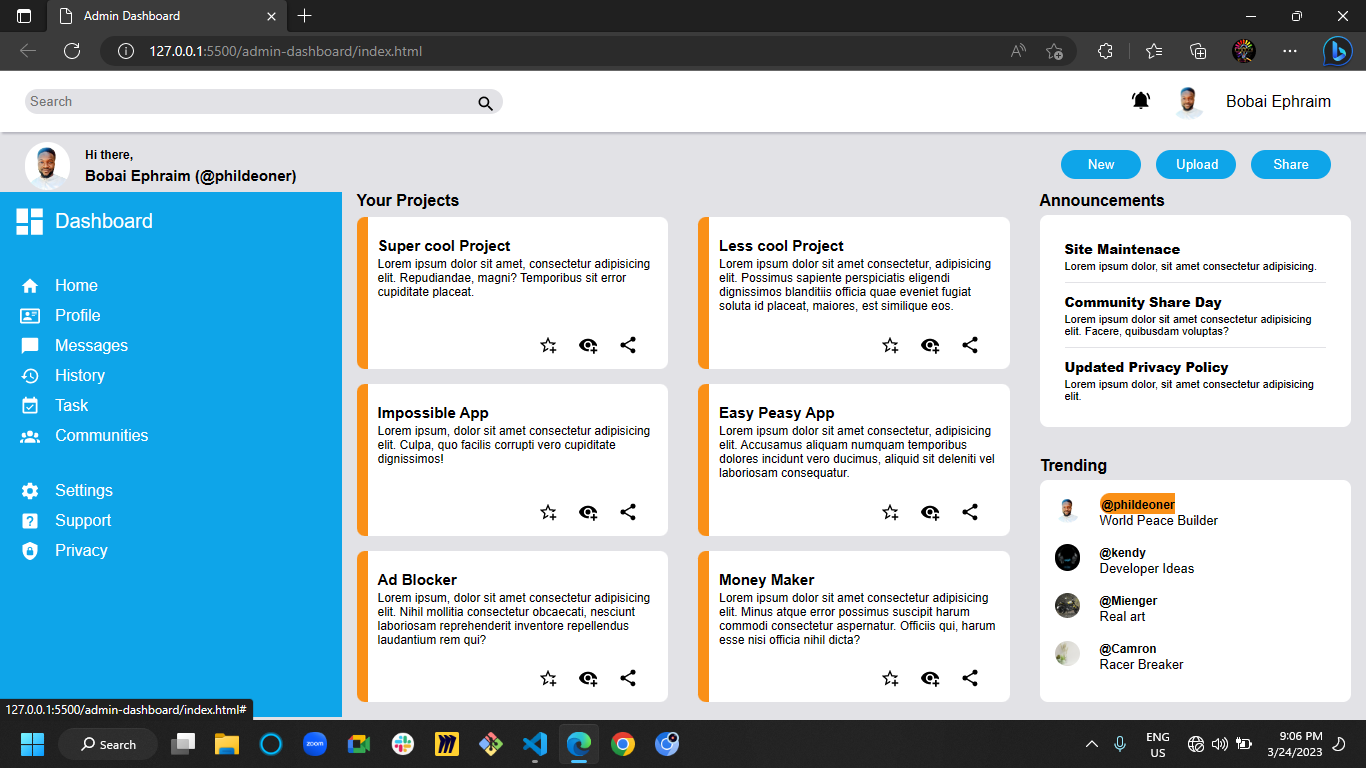
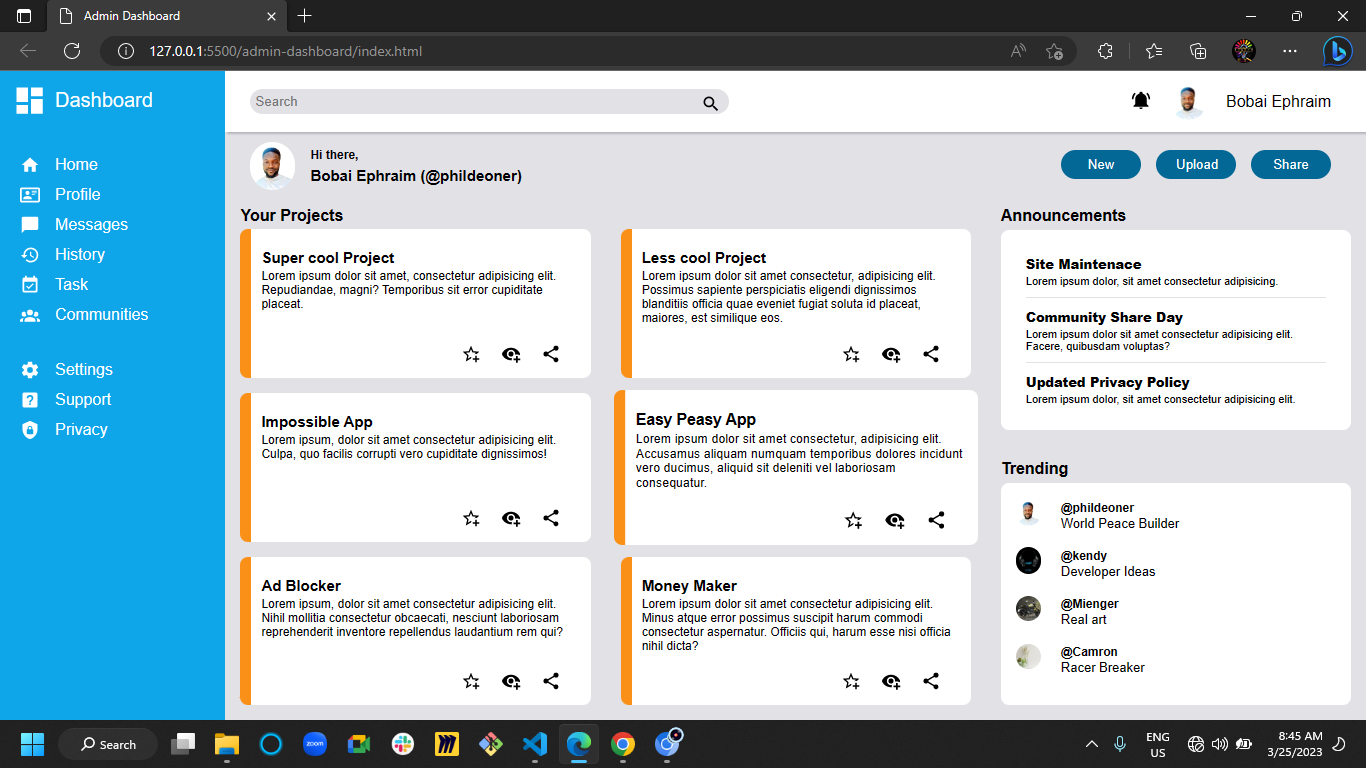
Adjsut sidebar

Changed region(s): [[0.0, 0.0938, 1.0, 0.9688], [0.3382, 0.0938, 0.5534, 0.1562], [0.0, 0.625, 0.0922, 0.7188]]

diff --git a/index.html b/index.html
@@ -9,6 +9,52 @@
 </head>
 <body>
   <div class="main">
+    <div class="sidebar">
+      <div class="dashboard">
+        <img class="image" src="./Images/view-dashboard.svg" alt="Dashboard image">
+        <a href="" class="links"><p>Dashboard</p></a>
+      </div>
+      <div class="content">
+        <div class="options">
+          <img class="image" src="./Images/home.svg" alt="Home image">
+          <a href="" class="links"><p>Home</p></a>
+        </div>
+        <div class="options">
+          <img class="image" src="./Images/card-account-details-outline.svg" alt="profile image">
+          <a href="" class="links"><p>Profile</p></a>
+        </div>
+        <div class="options">
+          <img class="image" src="./Images/message.svg" alt="Message image">
+          <a href="" class="links"><p>Messages</p></a>
+        </div>
+        <div class="options">
+          <img class="image" src="./Images/history.svg" alt="History image">
+          <a href="" class="links"><p>History</p></a>
+        </div>
+        <div class="options">
+          <img class="image" src="./Images/calendar-check.svg" alt="Task image">
+          <a href="" class="links"><p>Task</p></a>
+        </div>
+        <div class="options">
+          <img class="image" src="./Images/account-group.svg" alt="Communities image">
+          <a href="" class="links"><p>Communities</p></a>
+        </div>
+      </div>
+      <div class="others">
+        <div class="options">
+          <img class="image" src="./Images/cog.svg" alt="Settings image">
+          <a href="" class="links"><p>Settings</p></a>
+        </div>
+        <div class="options">
+          <img class="image" src="./Images/help-box.svg" alt="Support image">
+          <a href="" class="links"><p>Support</p></a>
+        </div>
+        <div class="options">
+          <img class="image" src="./Images/shield-lock.svg" alt="Privacy image">
+          <a href="" class="links"><p>Privacy</p></a>
+        </div>
+      </div>
+    </div>
     <div class="main-body">
       <div class="top">
         <div class="part1">
@@ -38,174 +84,127 @@
           </div>
         </div>
       </div>
-        <div class="grids">
-          <div class="sidebar">
-            <div class="dashboard">
-              <img class="image" src="./Images/view-dashboard.svg" alt="Dashboard image">
-              <a href="" class="links"><p>Dashboard</p></a>
+      <div class="grids">
+        <div class="mid">  
+          <p class="anm topic">Your Projects</p>       
+          <div class="grid">
+            <div class="grid-text">
+              <h4>Super cool Project</h4>
+              <p class="text">Lorem ipsum dolor sit amet, consectetur adipisicing elit. Repudiandae, magni? Temporibus sit error cupiditate placeat.</p>
             </div>
-            <div class="content">
-              <div class="options">
-                <img class="image" src="./Images/home.svg" alt="Home image">
-                <a href="" class="links"><p>Home</p></a>
-              </div>
-              <div class="options">
-                <img class="image" src="./Images/card-account-details-outline.svg" alt="profile image">
-                <a href="" class="links"><p>Profile</p></a>
-              </div>
-              <div class="options">
-                <img class="image" src="./Images/message.svg" alt="Message image">
-                <a href="" class="links"><p>Messages</p></a>
-              </div>
-              <div class="options">
-                <img class="image" src="./Images/history.svg" alt="History image">
-                <a href="" class="links"><p>History</p></a>
-              </div>
-              <div class="options">
-                <img class="image" src="./Images/calendar-check.svg" alt="Task image">
-                <a href="" class="links"><p>Task</p></a>
-              </div>
-              <div class="options">
-                <img class="image" src="./Images/account-group.svg" alt="Communities image">
-                <a href="" class="links"><p>Communities</p></a>
-              </div>
-            </div>
-            <div class="others">
-              <div class="options">
-                <img class="image" src="./Images/cog.svg" alt="Settings image">
-                <a href="" class="links"><p>Settings</p></a>
-              </div>
-              <div class="options">
-                <img class="image" src="./Images/help-box.svg" alt="Support image">
-                <a href="" class="links"><p>Support</p></a>
-              </div>
-              <div class="options">
-                <img class="image" src="./Images/shield-lock.svg" alt="Privacy image">
-                <a href="" class="links"><p>Privacy</p></a>
-              </div>
+            <div class="views">
+              <a href="#"><img class="ingrid" src="./Images/star-plus-outline.svg" alt="star icon"></a>
+              <a href="#"><img class="ingrid" src="./Images/eye-plus.svg" alt="eye icon"></a>
+              <a href="#"><img class="ingrid" src="./Images/share-variant.svg" alt="share icon"></a>
             </div>
           </div>
-          <div class="mid">  
-            <p class="anm topic">Your Projects</p>       
-            <div class="grid">
-              <div class="grid-text">
-                <h4>Super cool Project</h4>
-                <p class="text">Lorem ipsum dolor sit amet, consectetur adipisicing elit. Repudiandae, magni? Temporibus sit error cupiditate placeat.</p>
-              </div>
-              <div class="views">
-                <a href="#"><img class="ingrid" src="./Images/star-plus-outline.svg" alt="star icon"></a>
-                <a href="#"><img class="ingrid" src="./Images/eye-plus.svg" alt="eye icon"></a>
-                <a href="#"><img class="ingrid" src="./Images/share-variant.svg" alt="share icon"></a>
-              </div>
+          <div class="grid">
+            <div class="grid-text">
+              <h4>Less cool Project</h4>
+              <p class="text">Lorem ipsum dolor sit amet consectetur, adipisicing elit. Possimus sapiente perspiciatis eligendi dignissimos blanditiis officia quae eveniet fugiat soluta id placeat, maiores, est similique eos.</p>
             </div>
-            <div class="grid">
-              <div class="grid-text">
-                <h4>Less cool Project</h4>
-                <p class="text">Lorem ipsum dolor sit amet consectetur, adipisicing elit. Possimus sapiente perspiciatis eligendi dignissimos blanditiis officia quae eveniet fugiat soluta id placeat, maiores, est similique eos.</p>
-              </div>
-              <div class="views">
-                <a href="#"><img class="ingrid" src="./Images/star-plus-outline.svg" alt="star icon"></a>
-                <a href="#"><img class="ingrid" src="./Images/eye-plus.svg" alt="eye icon"></a>
-                <a href="#"><img class="ingrid" src="./Images/share-variant.svg" alt="share icon"></a>
-              </div>
-            </div>
-            <div class="grid">
-              <div class="grid-text">
-                <h4>Impossible App</h4>
-                <p class="text">Lorem ipsum, dolor sit amet consectetur adipisicing elit. Culpa, quo facilis corrupti vero cupiditate dignissimos!</p>
-              </div>
-              <div class="views">
-                <a href="#"><img class="ingrid" src="./Images/star-plus-outline.svg" alt="star icon"></a>
-                <a href="#"><img class="ingrid" src="./Images/eye-plus.svg" alt="eye icon"></a>
-                <a href="#"><img class="ingrid" src="./Images/share-variant.svg" alt="share icon"></a>
-              </div>
-            </div>
-            <div class="grid">
-              <div class="grid-text">
-                <h4>Easy Peasy App</h4>
-                <p class="text">Lorem ipsum dolor sit amet consectetur, adipisicing elit. Accusamus aliquam numquam temporibus dolores incidunt vero ducimus, aliquid sit deleniti vel laboriosam consequatur.</p>
-              </div>
-              <div class="views">
-                <a href="#"><img class="ingrid" src="./Images/star-plus-outline.svg" alt="star icon"></a>
-                <a href="#"><img class="ingrid" src="./Images/eye-plus.svg" alt="eye icon"></a>
-                <a href="#"><img class="ingrid" src="./Images/share-variant.svg" alt="share icon"></a>
-              </div>
-            </div>
-            <div class="grid">
-              <div class="grid-text">
-                <h4>Ad Blocker</h4>
-                <p class="text">Lorem ipsum, dolor sit amet consectetur adipisicing elit. Nihil mollitia consectetur obcaecati, nesciunt laboriosam reprehenderit inventore repellendus laudantium rem qui?</p>
-              </div>
-              <div class="views">
-                <a href="#"><img class="ingrid" src="./Images/star-plus-outline.svg" alt="star icon"></a>
-                <a href="#"><img class="ingrid" src="./Images/eye-plus.svg" alt="eye icon"></a>
-                <a href="#"><img class="ingrid" src="./Images/share-variant.svg" alt="share icon"></a>
-              </div>
-            </div>
-            <div class="grid">
-              <div class="grid-text">
-                <h4>Money Maker</h4>
-                <p class="text">Lorem ipsum dolor sit amet consectetur adipisicing elit. Minus atque error possimus suscipit harum commodi consectetur aspernatur. Officiis qui, harum esse nisi officia nihil dicta?</p>
-              </div>
-              <div class="views">
-                <a href="#"><img class="ingrid" src="./Images/star-plus-outline.svg" alt="star icon"></a>
-                <a href="#"><img class="ingrid" src="./Images/eye-plus.svg" alt="eye icon"></a>
-                <a href="#"><img class="ingrid" src="./Images/share-variant.svg" alt="share icon"></a>
-              </div>
+            <div class="views">
+              <a href="#"><img class="ingrid" src="./Images/star-plus-outline.svg" alt="star icon"></a>
+              <a href="#"><img class="ingrid" src="./Images/eye-plus.svg" alt="eye icon"></a>
+              <a href="#"><img class="ingrid" src="./Images/share-variant.svg" alt="share icon"></a>
             </div>
           </div>
-          <div class="ender">
-            <p class="anm">Announcements</p>
-            <div class="end-right1 ender1">
-              <div class="right-text">
-                <h4><a href="#">Site Maintenace</a></h4>
-                <p>Lorem ipsum dolor, sit amet consectetur adipisicing.</p>
-  
-                <h4><a href="#">Community Share Day</a></h4>
-                <p>Lorem ipsum dolor sit amet consectetur adipisicing elit. Facere, quibusdam voluptas?</p>
-  
-                <h4><a href="#">Updated Privacy Policy</a></h4>
-                <p class="ld">Lorem ipsum dolor, sit amet consectetur adipisicing elit.</p>
+          <div class="grid">
+            <div class="grid-text">
+              <h4>Impossible App</h4>
+              <p class="text">Lorem ipsum, dolor sit amet consectetur adipisicing elit. Culpa, quo facilis corrupti vero cupiditate dignissimos!</p>
+            </div>
+            <div class="views">
+              <a href="#"><img class="ingrid" src="./Images/star-plus-outline.svg" alt="star icon"></a>
+              <a href="#"><img class="ingrid" src="./Images/eye-plus.svg" alt="eye icon"></a>
+              <a href="#"><img class="ingrid" src="./Images/share-variant.svg" alt="share icon"></a>
+            </div>
+          </div>
+          <div class="grid">
+            <div class="grid-text">
+              <h4>Easy Peasy App</h4>
+              <p class="text">Lorem ipsum dolor sit amet consectetur, adipisicing elit. Accusamus aliquam numquam temporibus dolores incidunt vero ducimus, aliquid sit deleniti vel laboriosam consequatur.</p>
+            </div>
+            <div class="views">
+              <a href="#"><img class="ingrid" src="./Images/star-plus-outline.svg" alt="star icon"></a>
+              <a href="#"><img class="ingrid" src="./Images/eye-plus.svg" alt="eye icon"></a>
+              <a href="#"><img class="ingrid" src="./Images/share-variant.svg" alt="share icon"></a>
+            </div>
+          </div>
+          <div class="grid">
+            <div class="grid-text">
+              <h4>Ad Blocker</h4>
+              <p class="text">Lorem ipsum, dolor sit amet consectetur adipisicing elit. Nihil mollitia consectetur obcaecati, nesciunt laboriosam reprehenderit inventore repellendus laudantium rem qui?</p>
+            </div>
+            <div class="views">
+              <a href="#"><img class="ingrid" src="./Images/star-plus-outline.svg" alt="star icon"></a>
+              <a href="#"><img class="ingrid" src="./Images/eye-plus.svg" alt="eye icon"></a>
+              <a href="#"><img class="ingrid" src="./Images/share-variant.svg" alt="share icon"></a>
+            </div>
+          </div>
+          <div class="grid">
+            <div class="grid-text">
+              <h4>Money Maker</h4>
+              <p class="text">Lorem ipsum dolor sit amet consectetur adipisicing elit. Minus atque error possimus suscipit harum commodi consectetur aspernatur. Officiis qui, harum esse nisi officia nihil dicta?</p>
+            </div>
+            <div class="views">
+              <a href="#"><img class="ingrid" src="./Images/star-plus-outline.svg" alt="star icon"></a>
+              <a href="#"><img class="ingrid" src="./Images/eye-plus.svg" alt="eye icon"></a>
+              <a href="#"><img class="ingrid" src="./Images/share-variant.svg" alt="share icon"></a>
+            </div>
+          </div>
+        </div>
+        <div class="ender">
+          <p class="anm">Announcements</p>
+          <div class="end-right1 ender1">
+            <div class="right-text">
+              <h4><a href="#">Site Maintenace</a></h4>
+              <p>Lorem ipsum dolor, sit amet consectetur adipisicing.</p>
+
+              <h4><a href="#">Community Share Day</a></h4>
+              <p>Lorem ipsum dolor sit amet consectetur adipisicing elit. Facere, quibusdam voluptas?</p>
+
+              <h4><a href="#">Updated Privacy Policy</a></h4>
+              <p class="ld">Lorem ipsum dolor, sit amet consectetur adipisicing elit.</p>
+            </div>
+          </div>
+          <p class="anm">Trending</p>
+          <div class="end-right1 ender2">
+            <div class="flex-text">
+              <div class="right">
+                <img class="dp" src="./Images/Dp.jpg" alt="">
+                <div>
+                  <a href="#"><span>@phildeoner</span><p class="mini">World Peace Builder</p></a>
+                </div>
               </div>
             </div>
-            <p class="anm">Trending</p>
-            <div class="end-right1 ender2">
-              <div class="flex-text">
-                <div class="right">
-                  <img class="dp" src="./Images/Dp.jpg" alt="">
-                  <div>
-                    <a href="#"><span>@phildeoner</span><p class="mini">World Peace Builder</p></a>
-                  </div>
+            <div class="flex-text">
+              <div class="right">
+                <img class="dp" src="./Images/Dp2.jpg" alt="">
+                <div>
+                  <a href="#"><span>@kendy</span><p class="mini">Developer Ideas</p></a>
                 </div>
               </div>
-              <div class="flex-text">
-                <div class="right">
-                  <img class="dp" src="./Images/Dp2.jpg" alt="">
-                  <div>
-                    <a href="#"><span>@kendy</span><p class="mini">Developer Ideas</p></a>
-                  </div>
+            </div>
+            <div class="flex-text">
+              <div class="right">
+                <img class="dp" src="./Images/Dp3.jpg" alt="">
+                <div>
+                  <a href="#"><span>@Mienger</span><p class="mini">Real art</p></a>
                 </div>
               </div>
-              <div class="flex-text">
-                <div class="right">
-                  <img class="dp" src="./Images/Dp3.jpg" alt="">
-                  <div>
-                    <a href="#"><span>@Mienger</span><p class="mini">Real art</p></a>
-                  </div>
-                </div>
-              </div>
-              <div class="flex-text">
-                <div class="right">
-                  <img class="dp" src="./Images/Dp4.jpg" alt="">
-                  <div>
-                    <a href="#"><span>@Camron</span><p class="mini">Racer Breaker</p></a>
-                  </div>
+            </div>
+            <div class="flex-text">
+              <div class="right">
+                <img class="dp" src="./Images/Dp4.jpg" alt="">
+                <div>
+                  <a href="#"><span>@Camron</span><p class="mini">Racer Breaker</p></a>
                 </div>
               </div>
             </div>
           </div>
         </div>
-        
+      </div>
     </div>
   </div>
   <script src="script.js"></script>

diff --git a/style.css b/style.css
@@ -19,6 +19,9 @@ body {
   background-color: #0ea5e9;
   color: white;
   gap: 25px;
+  width: 270px;
+  max-width: 280px;
+  min-width: 170px;
 }
 
 .sidebar a {
@@ -194,6 +197,7 @@ span {
   display: flex;
   align-items: center;
   justify-content: space-between;
+  margin-bottom: 15px;
 }
 
 button {
@@ -280,7 +284,7 @@ h4 {
 
 .grids {
   display: grid;
-  grid-template-columns: 1fr 2fr 1fr;
+  grid-template-columns: 2fr 1fr;
   grid-template-rows: repeat(1, 1fr);
 }
 
